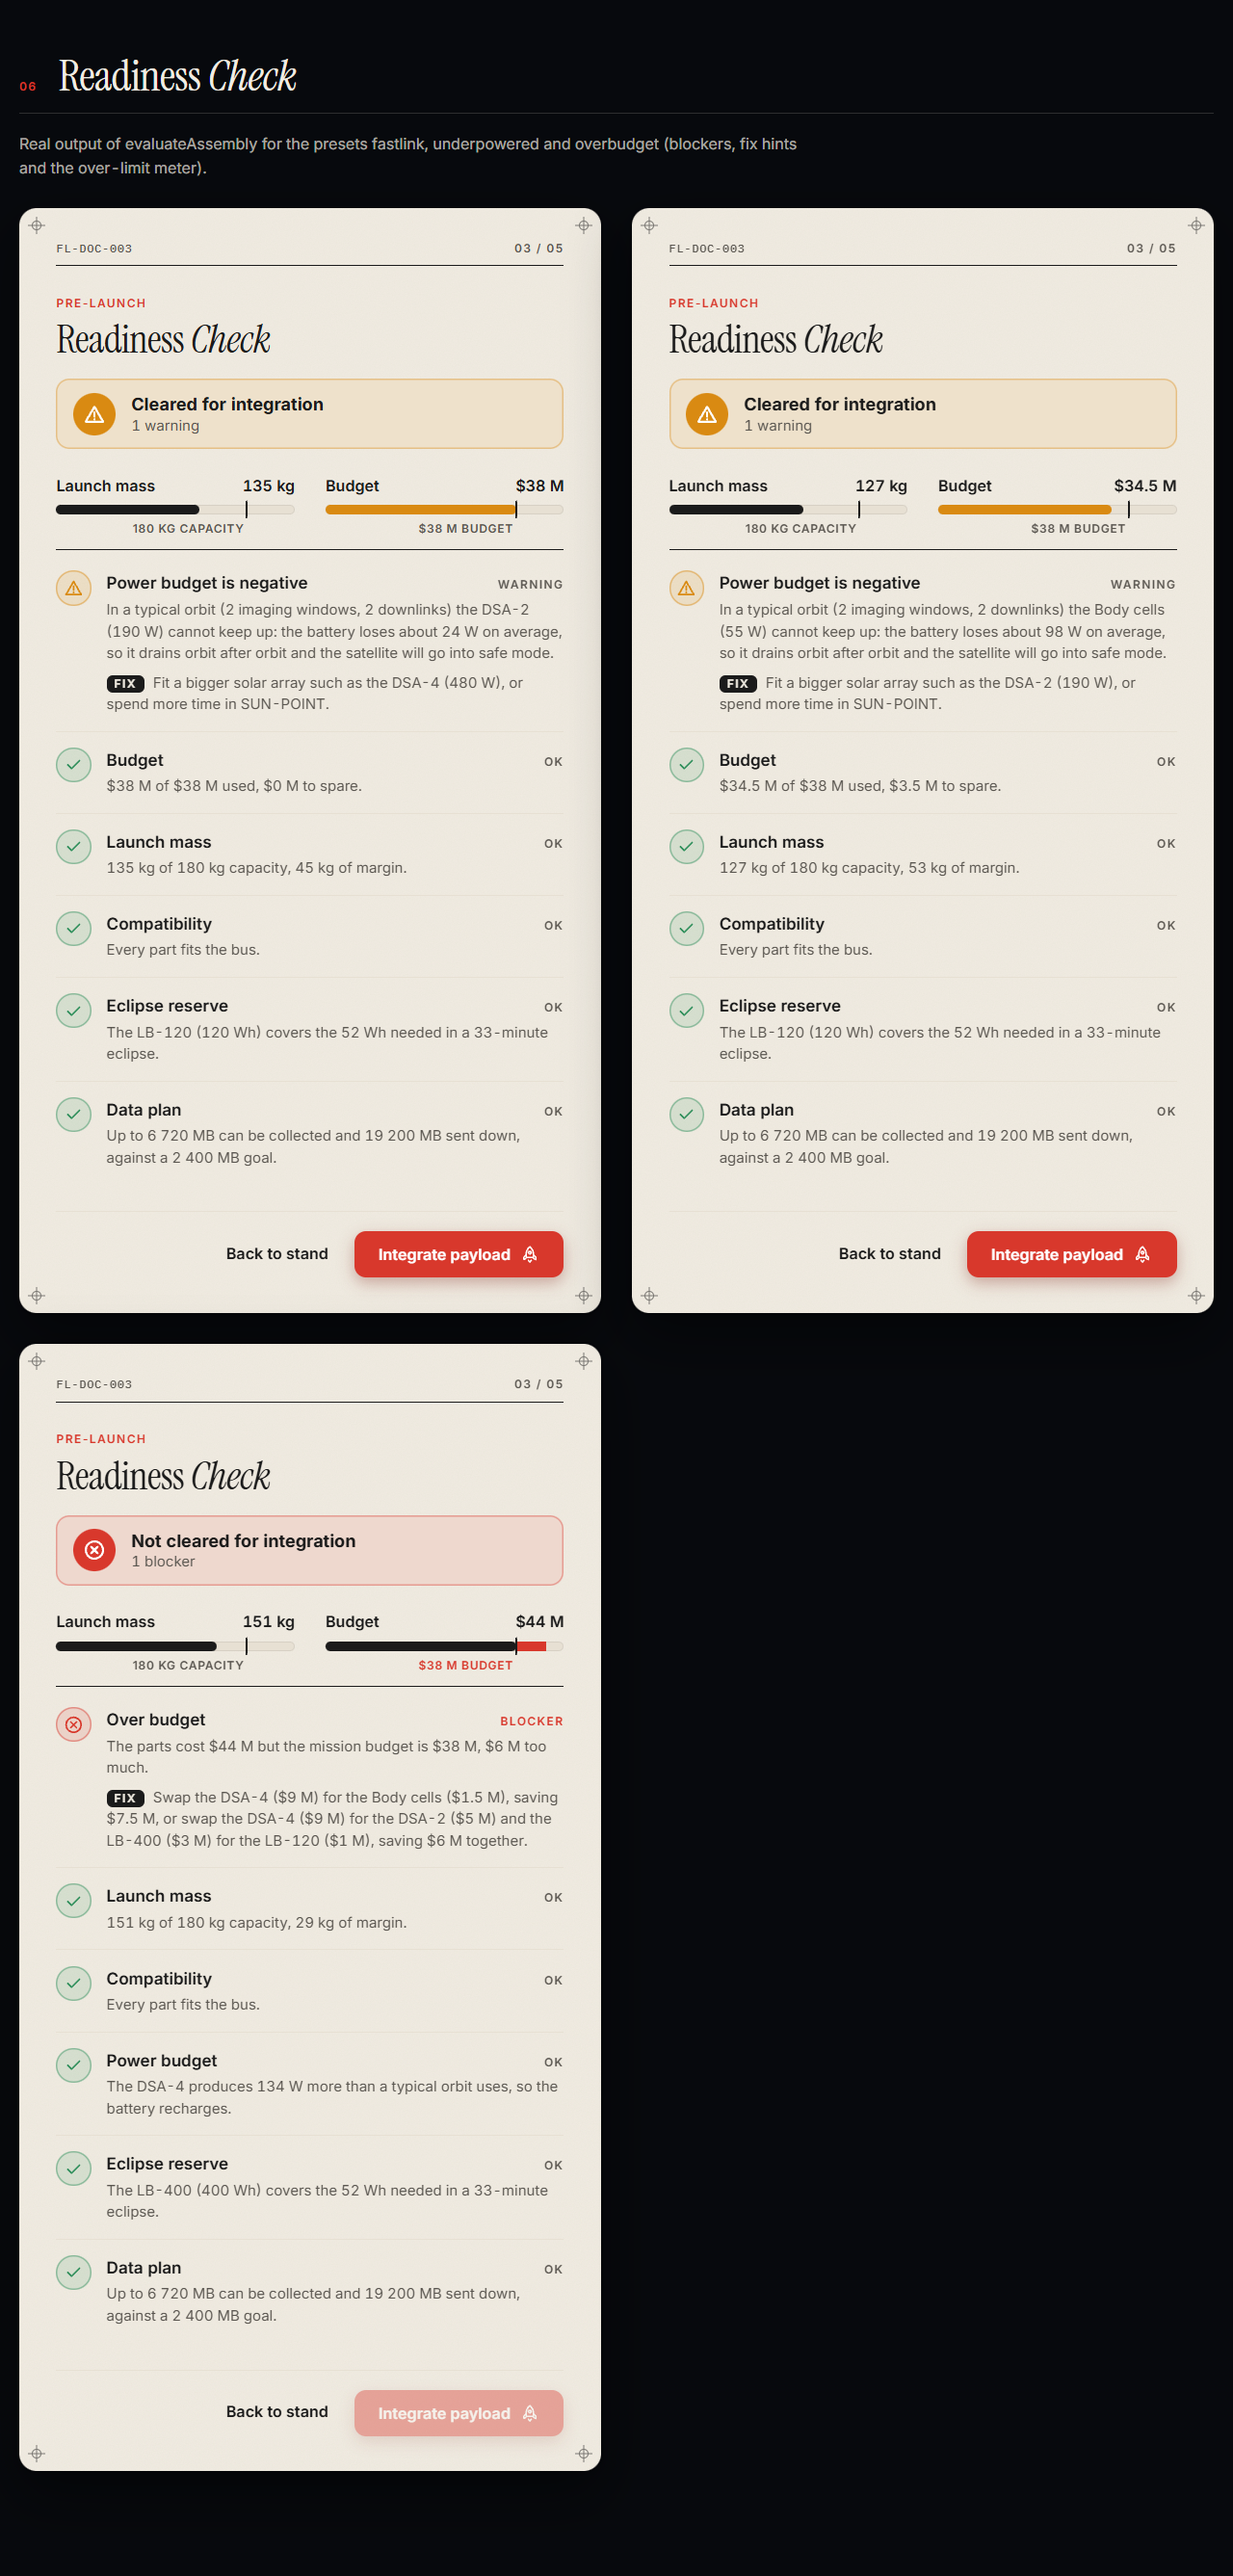
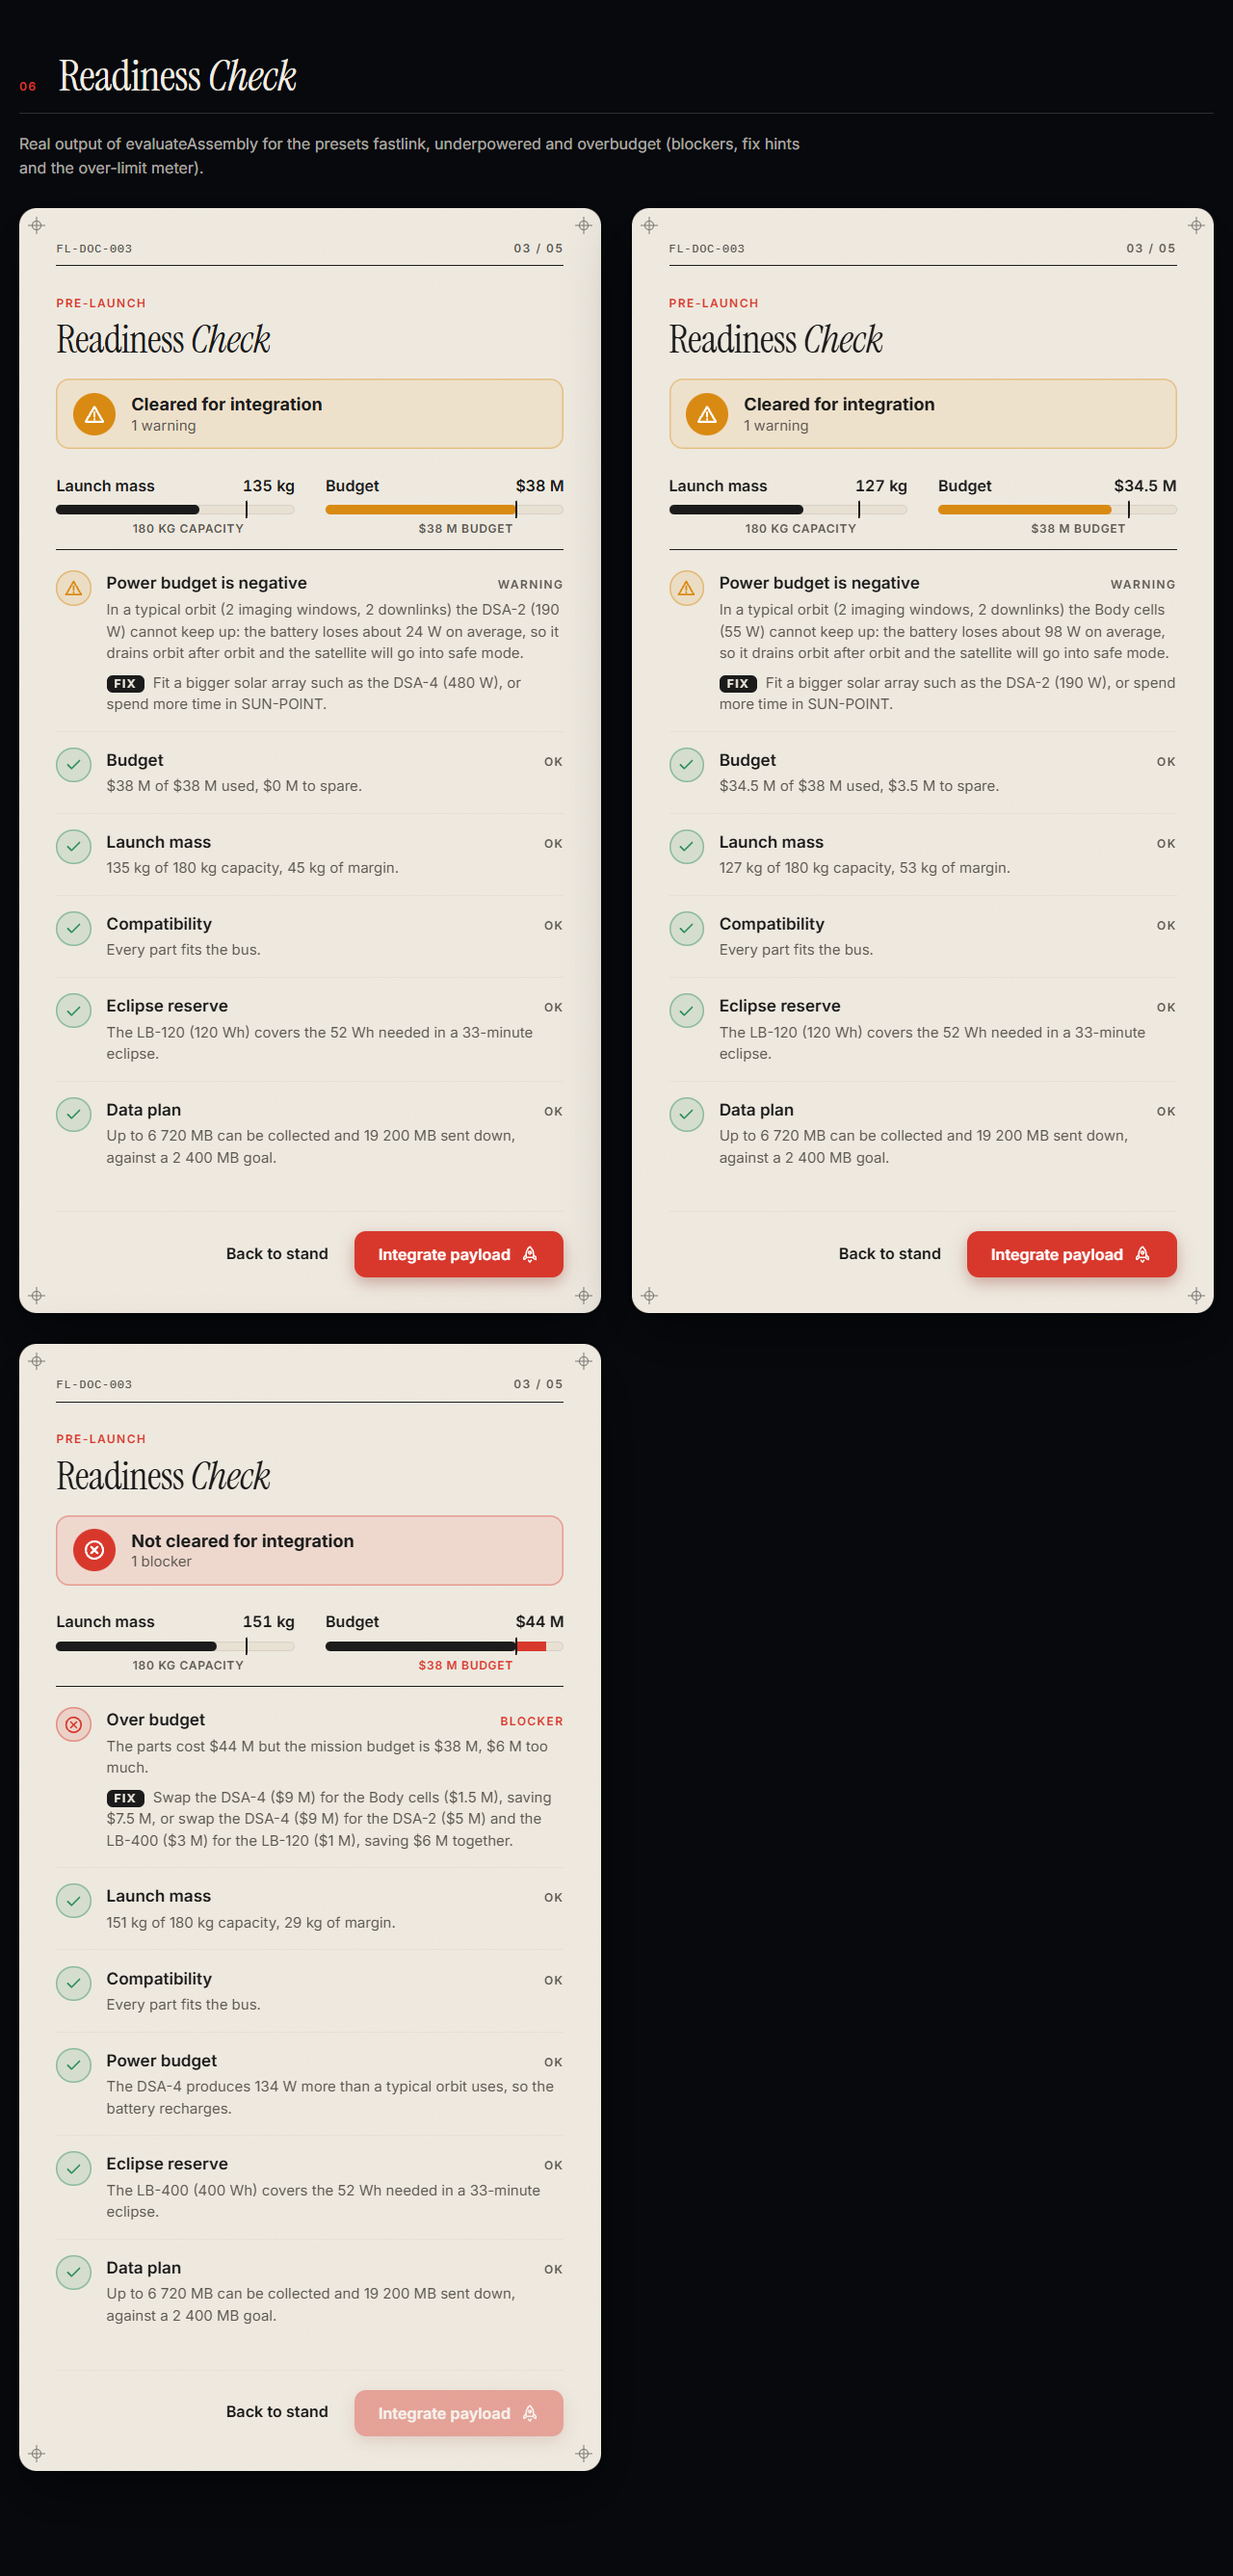
T2b fixes: tabular numerals only on numeric displays (tight hyphens); debrief shows real objective states and star note

diff --git a/src/ui/panels.js b/src/ui/panels.js
@@ -222,13 +222,13 @@ export function debrief(result, { onRedesign = null, onReplay = null, onMenu = n
   const primaryMet = result.objectives[0].met;
   const row = el('div', 'debrief__stars');
   row.append(stars(result.objectives.map((o) => o.met && primaryMet)));
+  if (!primaryMet) row.append(el('p', 'debrief__starnote', 'Stars count once the primary goal is met.'));
   head.append(left, row);
 
   const objectives = el('ol', 'debrief__objectives');
   for (const o of result.objectives) {
-    const earned = o.met && primaryMet;
-    const li = el('li', `debrief__objective${earned ? ' is-earned' : ''}`);
-    li.append(icon(earned ? 'check' : 'close', { draw: true }), el('span', '', o.text));
+    const li = el('li', `debrief__objective${o.met ? ' is-earned' : ''}`);
+    li.append(icon(o.met ? 'check' : 'close', { draw: true }), el('span', '', o.text));
     objectives.append(li);
   }
 

diff --git a/css/components.css b/css/components.css
@@ -12,8 +12,7 @@ html, body {
   color: var(--paper);
   font-family: var(--font-ui);
   line-height: 1.5;
-  font-feature-settings: "tnum" 1, "calt" 1;
-  font-variant-numeric: tabular-nums;
+  font-feature-settings: "calt" 1;
   -webkit-font-smoothing: antialiased;
   text-rendering: optimizeLegibility;
   user-select: none;
@@ -541,3 +540,6 @@ html, body {
   .icon--draw path, .objective__box .icon path { animation: none !important; transition-duration: 1ms !important; }
 }
 .segmented__opt span { text-transform: capitalize; }
+
+/* Tabular numerals only on numeric displays, never on running text (tnum widens hyphens). */
+.stat__num, .meter__value, .row__value, .timeline__eta, .loading__pct, .hud-card__code, .doc__index, .check-row__tag, .tabular { font-feature-settings: "tnum" 1; font-variant-numeric: tabular-nums; }

diff --git a/css/panels.css b/css/panels.css
@@ -91,3 +91,5 @@
 .debrief__list:not(.debrief__list--icon) li:first-child > span:last-child { font-weight: 500; font-size: 1rem; }
 .debrief__list .icon { width: 1.1rem; height: 1.1rem; margin-top: 0.2rem; stroke-width: 2.2; color: var(--ink); }
 .debrief__dot { width: 7px; height: 7px; margin: 0.55rem 0 0 0.15rem; border-radius: 50%; background: var(--ink); }
+.debrief__stars { display: flex; flex-direction: column; align-items: flex-end; gap: 0.5rem; }
+.debrief__starnote { margin: 0; font-size: var(--fs-small); color: var(--ink-2); }
